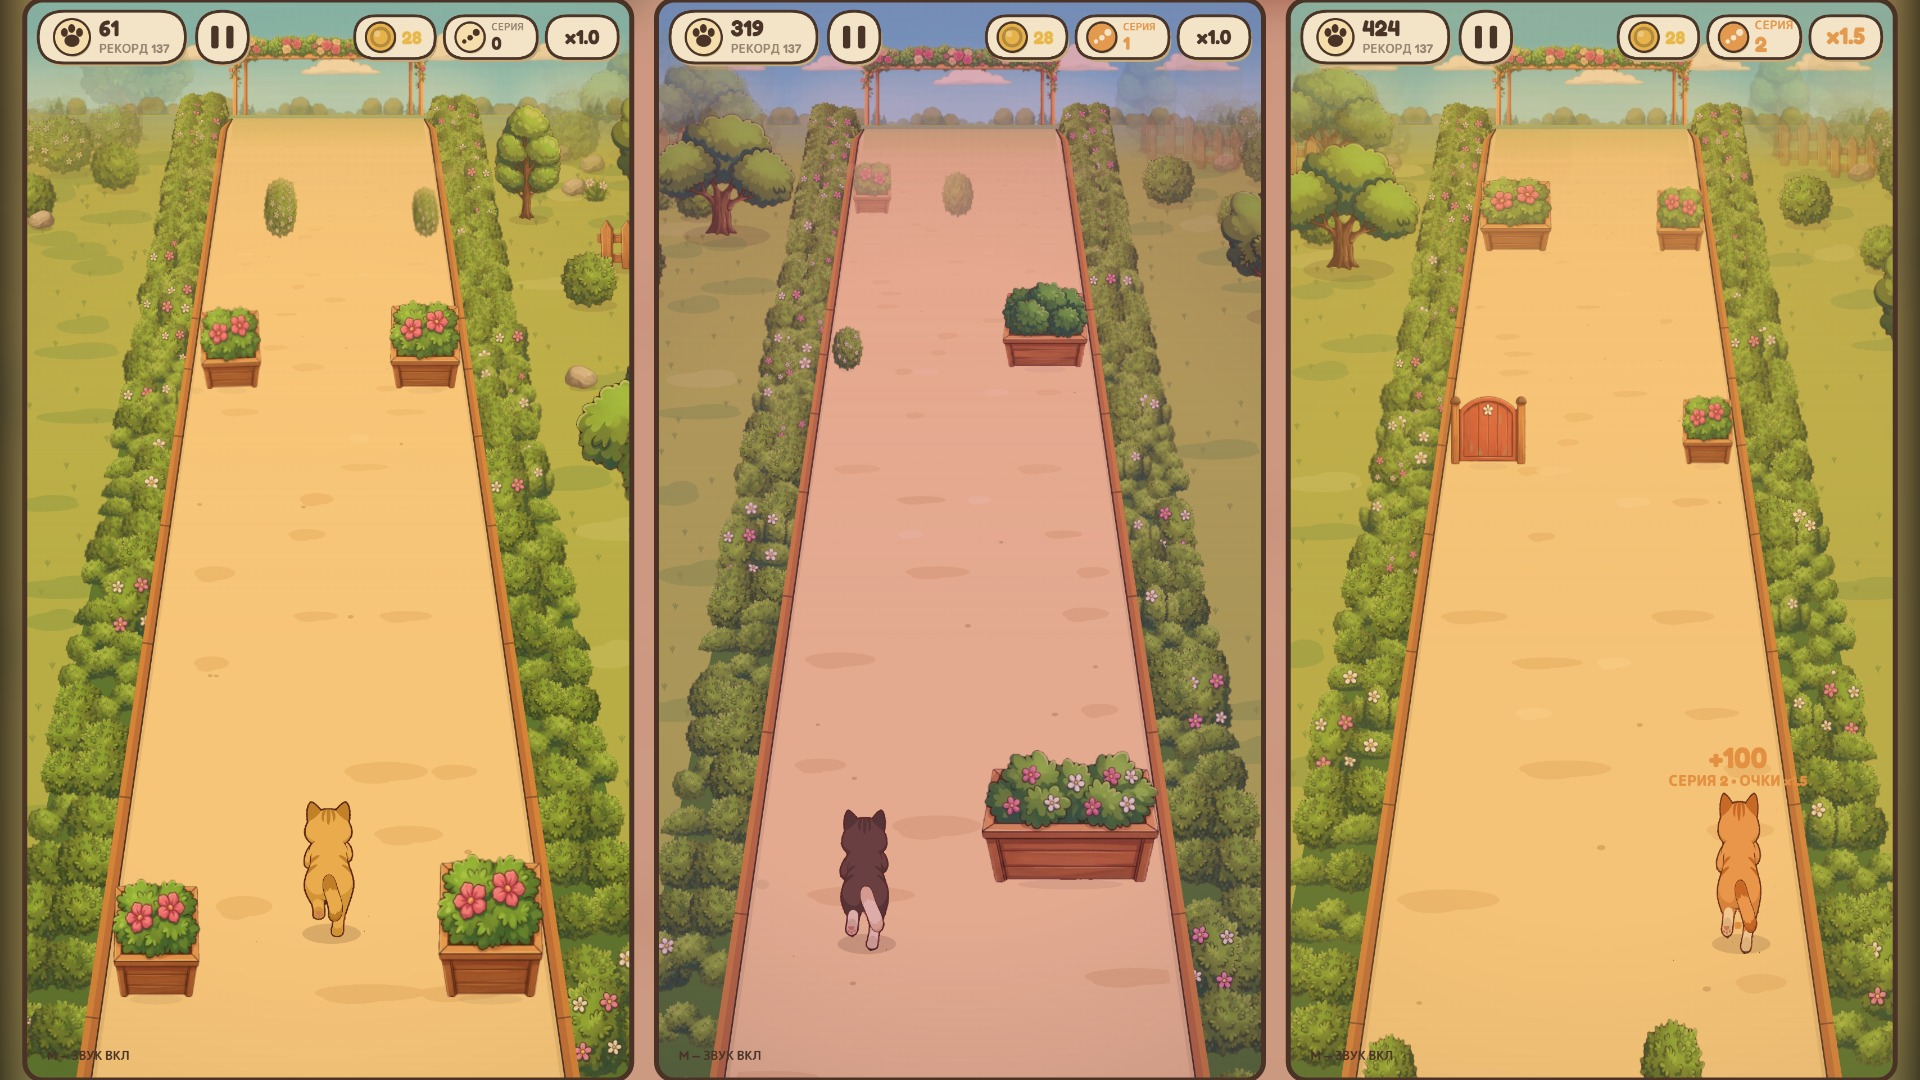
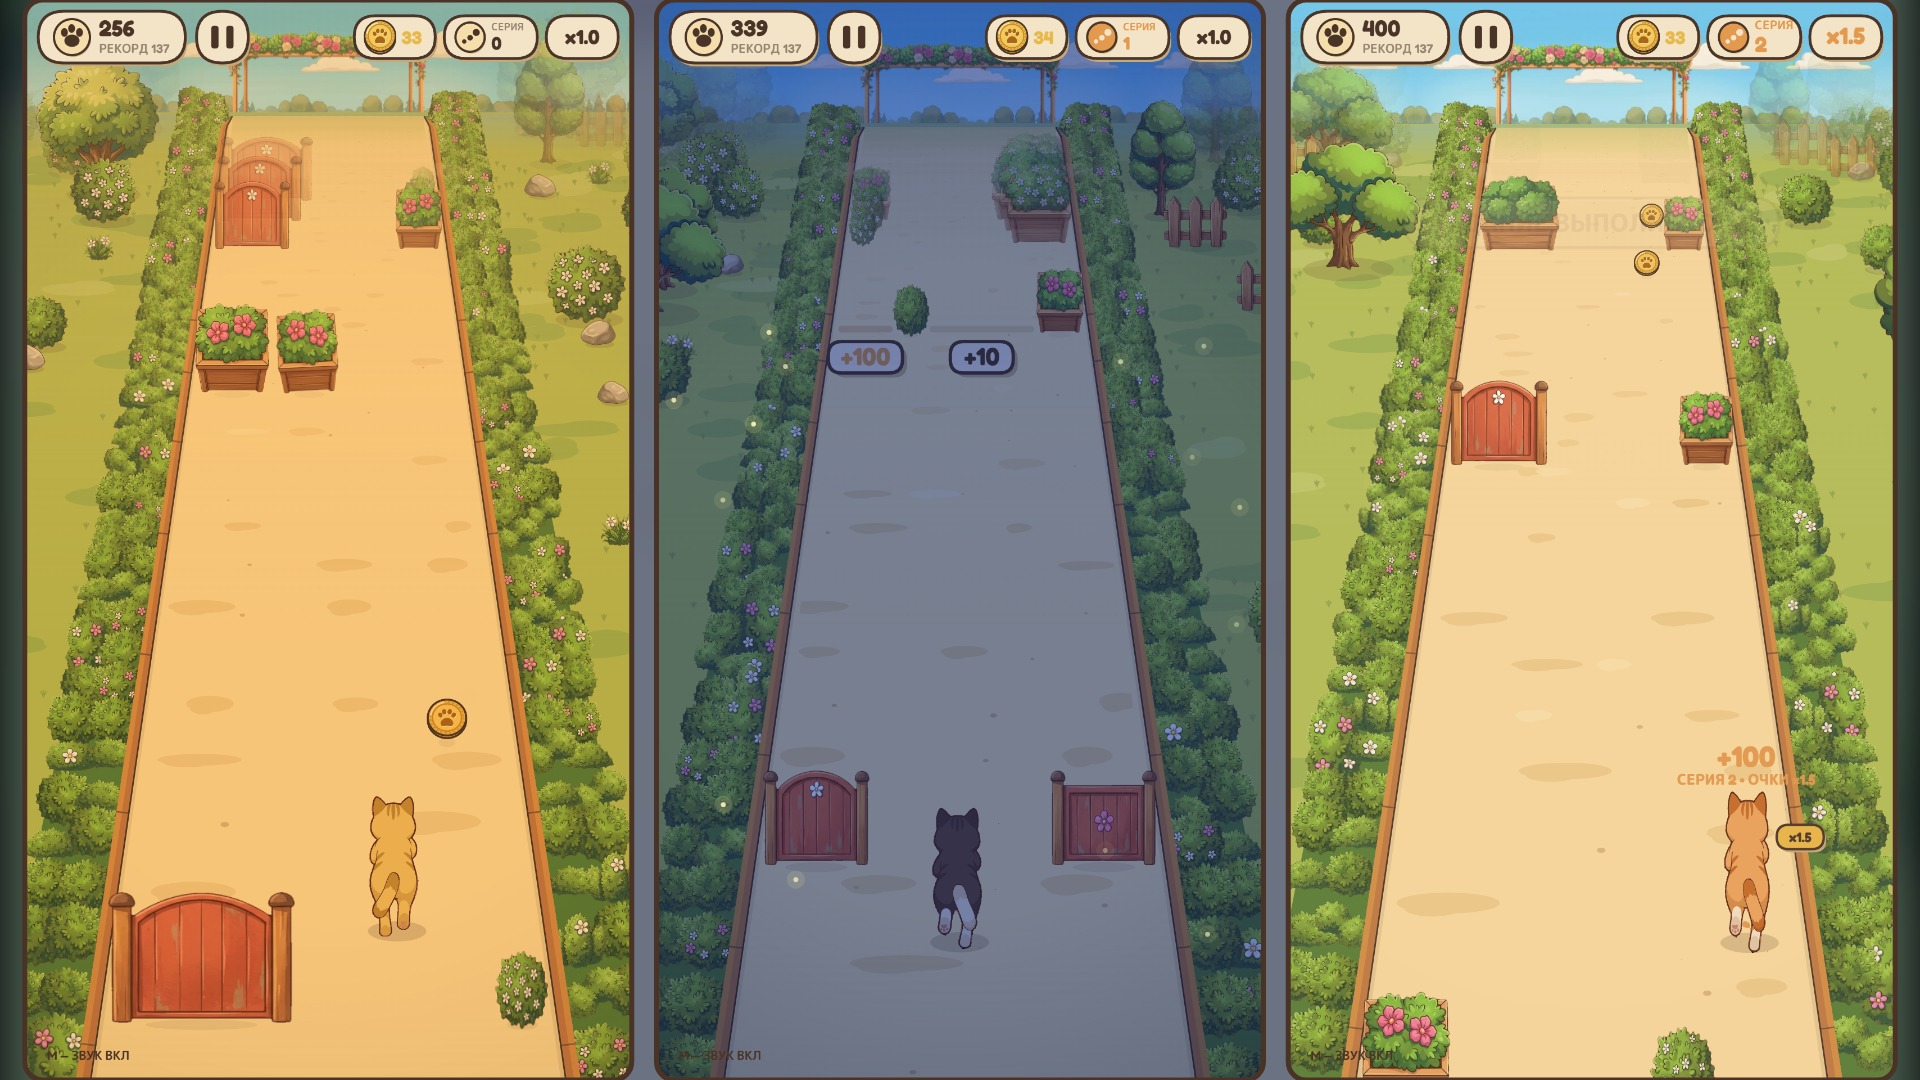
chore: re-shot store screenshots (RU and EN)
Five phone and two desktop screenshots per language taken from the current
game (gates in the fourth shot instead of the swaying pot only), plus extra
shots: start, quests, achievements, shop, shop preview. cap.js gets a
moverAhead helper, recipe.js the new extra shots.

diff --git a/scripts/store-capture/recipe.js b/scripts/store-capture/recipe.js
@@ -38,11 +38,11 @@ export async function phoneShots(cap, lang) {
   await cap.begin({ seed: 24, assist: 1, tod: 188, skin: 'ribbon' });
   cap.advance(14);
   log.push(await cap.shoot(`${lang}-phone-3-night.jpg`, true));
-  // 4. Качающееся кашпо (появляется после 90-й секунды забега: старт со 100-й).
+  // 4. Подвижная часть на дороге: качающееся кашпо, створки калитки или тележка (после 50-й секунды забега: старт со 100-й).
   g.__risk = false;
   await cap.begin({ seed: 100, assist: 1, tod: 0, start: 100, skin: 'honey' });
-  cap.advance(60, cap.swayAhead(260, 600));
-  log.push(await cap.shoot(`${lang}-phone-4-planter.jpg`, true));
+  cap.advance(60, cap.moverAhead(260, 600));
+  log.push(await cap.shoot(`${lang}-phone-4-moving.jpg`, true));
   // 5. Вечер.
   g.__risk = true;
   await cap.begin({ seed: 2, assist: 1, tod: 126, skin: 'tuxedo' });
@@ -54,7 +54,8 @@ export async function phoneShots(cap, lang) {
   return log;
 }
 
-// Дополнительные кадры: стартовый экран, задания, магазин (это не геймплей, поэтому отдельно от основных).
+// Дополнительные кадры: стартовый экран, задания, достижения, магазин и большое превью скина (это не геймплей, поэтому
+// отдельно от основных).
 export async function extraShots(cap, lang) {
   const g = cap.g;
   const sleep = (ms) => new Promise((resolve) => setTimeout(resolve, ms));
@@ -71,9 +72,16 @@ export async function extraShots(cap, lang) {
   await sleep(200);
   log.push(await cap.shoot(`${lang}-extra-quests.jpg`));
   g.closeQuests();
+  g.openAchievements();
+  await sleep(200);
+  log.push(await cap.shoot(`${lang}-extra-achievements.jpg`));
+  g.closeAchievements();
   g.openShop();
   await sleep(2500);
   log.push(await cap.shoot(`${lang}-extra-shop.jpg`));
+  g.tapSkin('siamese');
+  await sleep(200);
+  log.push(await cap.shoot(`${lang}-extra-shop-preview.jpg`));
   g.closeShop();
   return log;
 }

diff --git a/scripts/store-capture/cap.js b/scripts/store-capture/cap.js
@@ -92,6 +92,12 @@ export function install(g) {
     const a = aheadOf(Math.min(...s.obstacles.map((o) => o.y)));
     return a > min && a < max;
   });
+  // Ряд с подвижной частью впереди: качающееся кашпо, створки калиток или тележка (с 50-й секунды забега).
+  const moverAhead = (min = 220, max = 650) => () => g.track.segments.some((s) => {
+    if (!(s.sway || s.movers) || !s.obstacles.length) return false;
+    const a = aheadOf(Math.min(...s.obstacles.map((o) => o.y)));
+    return a > min && a < max;
+  });
   const floatNow = () => g.floatingRewards.some((f) => f.type !== 'COIN' && f.life > f.maxLife * 0.6);
 
   async function save(name, type = 'image/jpeg', quality = 0.92) {
@@ -279,5 +285,5 @@ export function install(g) {
     return state;
   }
 
-  return { g, bot, frames, hi, lo, freeze, begin, advance, forkAhead, swayAhead, floatNow, save, shoot, triptych, record };
+  return { g, bot, frames, hi, lo, freeze, begin, advance, forkAhead, swayAhead, moverAhead, floatNow, save, shoot, triptych, record };
 }
